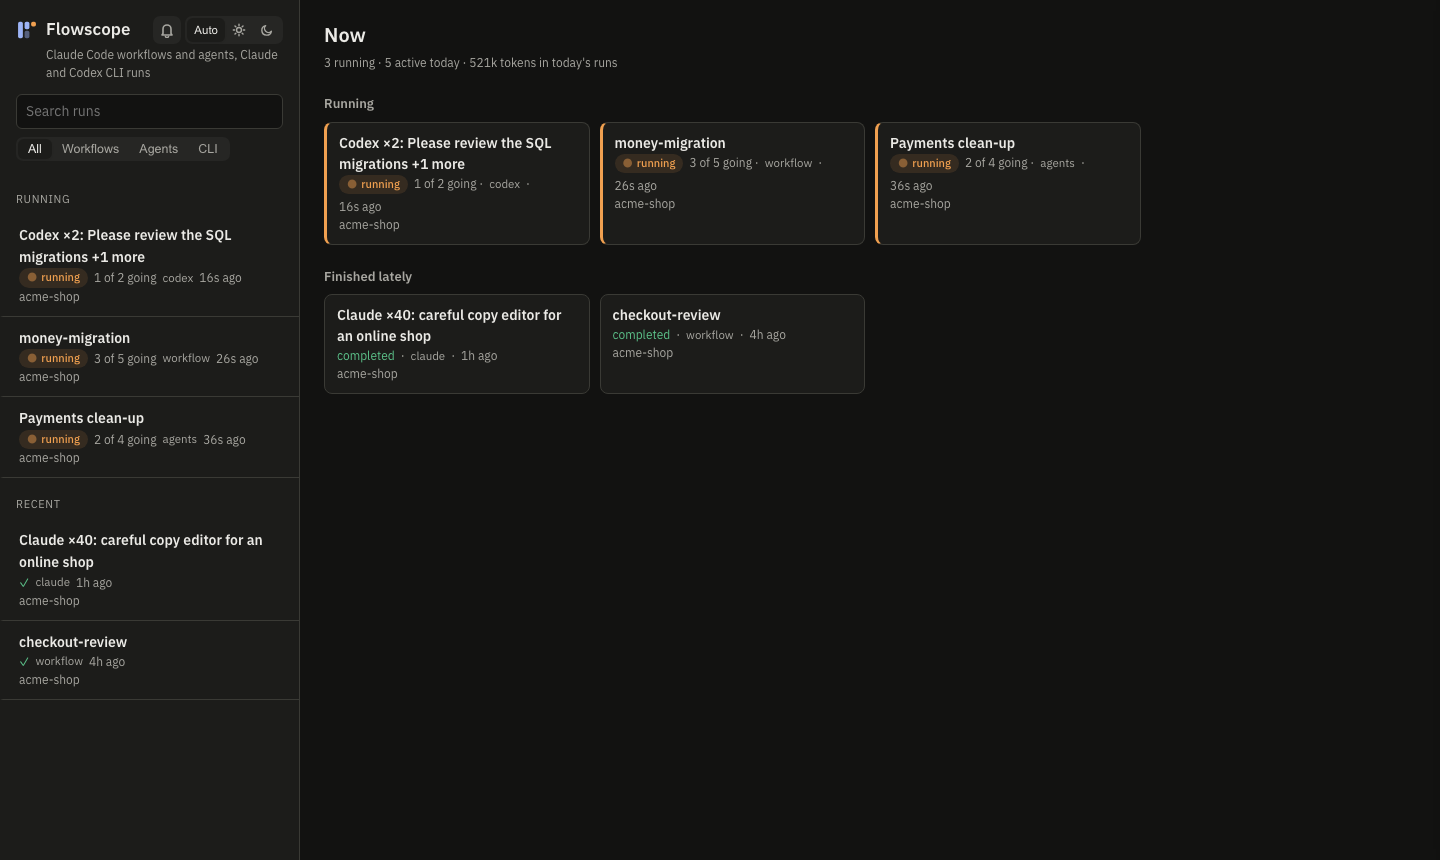
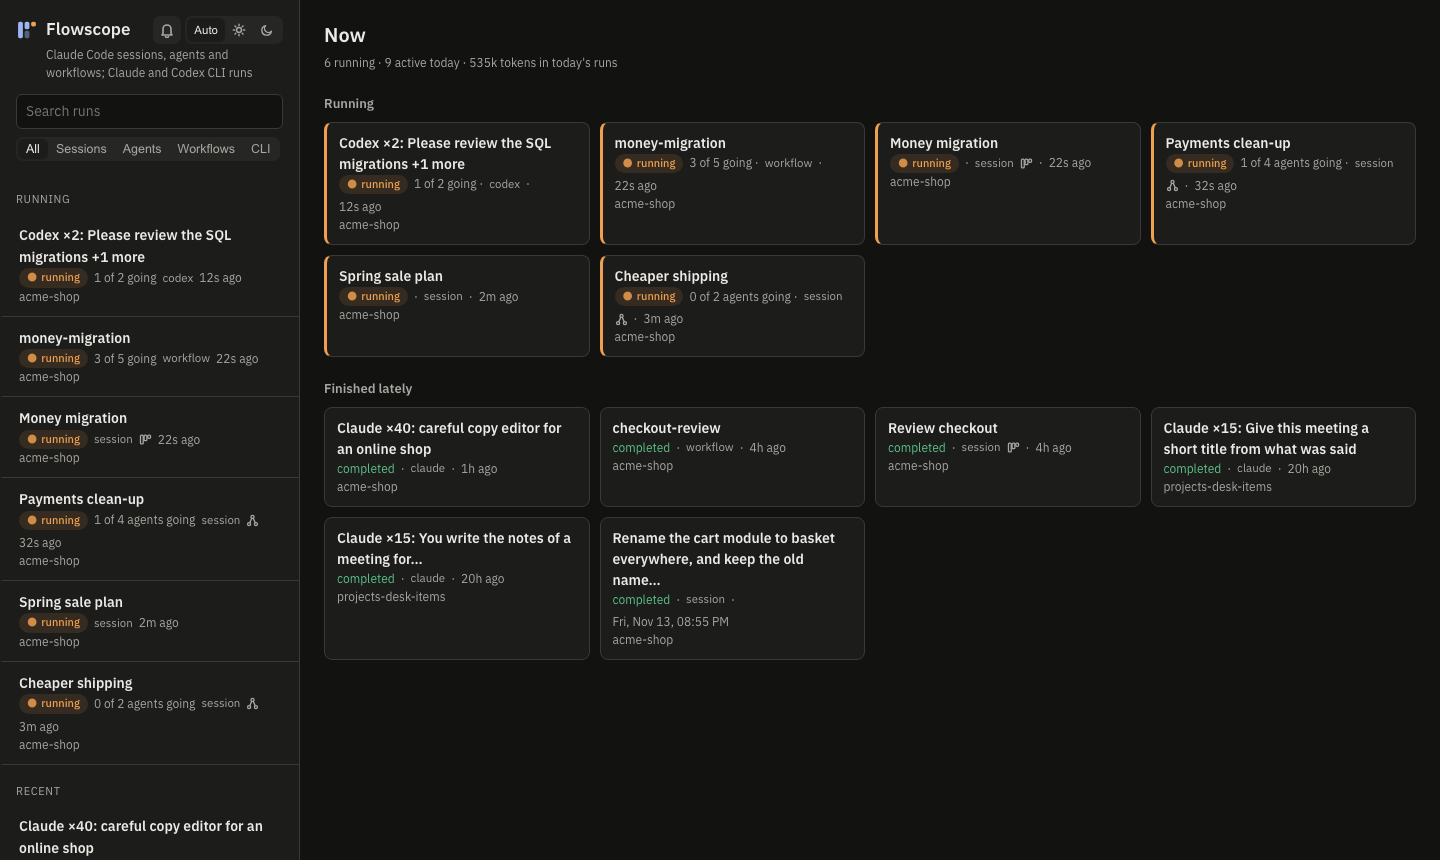
Flowscope: 0.2.0, with a changelog, and the tour and home screenshot showing sessions and a series

diff --git a/scripts/tour.ts b/scripts/tour.ts
@@ -1,6 +1,7 @@
 #!/usr/bin/env bun
 // Records the README's tour GIF (docs/img/tour.gif) from the made-up demo tree, never from real transcripts:
-// home, a live workflow's board, an agent's result and transcript, the timeline, and a batch of CLI runs.
+// home, a live workflow's board, an agent's result and transcript, the timeline, a batch and a series of CLI runs, and a
+// session with its conversation and subagents.
 //
 //   bun scripts/tour.ts            needs ffmpeg and the dev dependencies (bun install; bunx playwright install chromium)
 import { chromium, type Page } from "@playwright/test";
@@ -59,5 +60,19 @@ async function tour(page: Page) {
   await page.locator("#filters button", { hasText: "CLI" }).click();
   await page.locator("#runs .run", { hasText: "Claude ×40" }).click();
   await page.locator("#main header h2", { hasText: "Claude ×40" }).waitFor();
-  await pause(3);
+  await pause(2.5);
+  // An app's title call for each meeting over five days: one series, grouped by day.
+  await page.locator("#runs .run", { hasText: "Claude ×15: Give this meeting" }).click();
+  await page.locator("#main header h2", { hasText: "Claude ×15" }).waitFor();
+  await pause(2.5);
+  // Sessions: a conversation whose subagents finished days ago, still today's.
+  await page.locator("#filters button", { hasText: "Sessions" }).click();
+  await page.locator("#runs .run", { hasText: "Cheaper shipping" }).click();
+  await page.locator(".card.convo").waitFor();
+  await pause(2);
+  await page.locator(".card.convo").click();
+  await pause(2.5);
+  await page.keyboard.press("Escape");
+  await page.locator("#filters button", { hasText: "All" }).click();
+  await pause(1);
 }

diff --git a/CHANGELOG.md b/CHANGELOG.md
@@ -1,0 +1,33 @@
+# Changelog
+
+What changed for people using Flowscope, by version. Versions follow semver; before 1.0 a minor version may change behaviour (see [CONTRIBUTING.md](CONTRIBUTING.md#releasing)).
+
+## 0.2.0
+
+**Every session is listed.**
+- Every Claude Code conversation is now a run of its own, kind `session`, named by its title (or its first prompt), dated by its last word, `running` while anything in it was written in the last 15 minutes. Before, a conversation showed only if it launched subagents, so an important thread could be missing.
+- A session and the subagents it launched are one row. A live conversation whose subagents finished days ago stays among today's runs instead of sinking into History.
+- Opening a session shows its **Conversation** card, the workflows it launched and its subagents' board; the conversation opens in the side drawer, read like any agent's transcript. A session that launched nothing opens straight into its conversation.
+- A workflow stays a row of its own; the session lists it, and the workflow's page links back ("Launched from").
+- A conversation at rest is `completed`, not flagged quiet or under Needs a look, and sends no notification, unless a subagent of it was left unfinished.
+
+**Filters and marks.**
+- The filters are **All · Sessions · Agents · Workflows · CLI**. Agents are the sessions that launched subagents. A filter remembered by 0.1 keeps working.
+- In the list, a session that launched subagents or workflows carries a small mark for each, with a tooltip.
+
+**Repeating CLI calls are one series.**
+- `claude -p` or `codex exec` calls that an app makes again and again, each from its item's own folder in one repository (a title for each meeting, say), with prompts that start with the same five words, are one row however far apart: "Claude ×15: Give this meeting a short title from what was said". It opens as a table of every run, grouped by day, each named by its folder. Calls started together stay a batch, as before.
+
+**Other.**
+- `--help` says what Flowscope covers: Claude Code sessions, subagents and workflows, and headless Claude Code and Codex CLI runs.
+- Links from 0.1 to a session's subagents (`#<session>/agents/…`) still open.
+- A live conversation, its title and its token count are read on from where the last read stopped, not from the start, so a long session stays cheap to watch. The cache is rebuilt once on upgrade (its format changed).
+
+## 0.1.0
+
+First release.
+- A live, local, read-only view of Claude Code workflow runs, the plain subagents of a session, and headless `claude -p` and `codex exec` runs, grouped into batches.
+- Phases as columns and agents as cards, a timeline, a table for big batches, the needs-a-look strip, browser notifications.
+- Each agent's result, task and transcript, search inside transcripts, deep links to a step, copy resume command.
+- Tokens per run and agent, and each run's share of the last 7 days of Claude Code usage.
+- Localhost only, strict Content Security Policy, vendored libraries with integrity hashes, no outbound requests.
